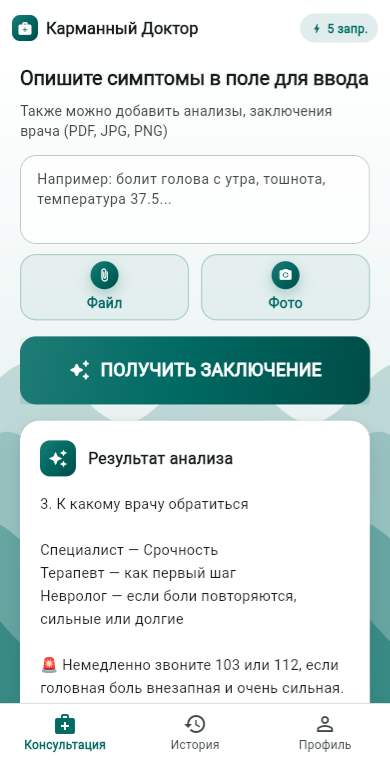
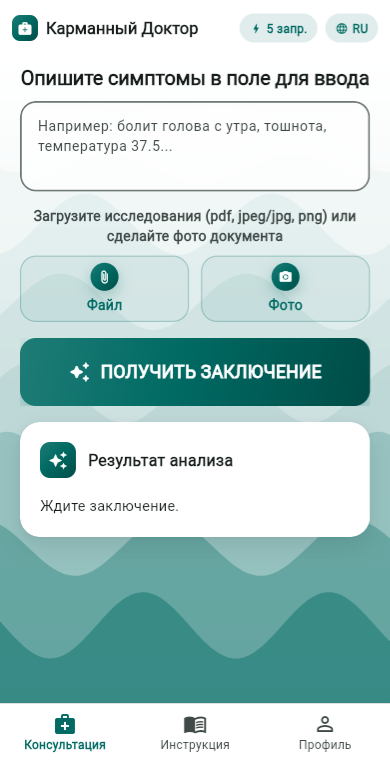
Карманный Доктор: единая бирюзовая тема скриншотов + EN-экран + лайтбокс
Все скриншоты раздела "Как выглядит" пересобраны в единой бирюзовой
теме (была смешанная синяя/бирюзовая). Добавлен главный экран на
английском языке. Добавлен клик-лайтбокс — открытие скриншота крупно
поверх страницы. Экран Истории убран из галереи (директива Михаила) —
итого 5 скриншотов вместо прежних 5 смешанных + отдельно показывался 6-й.

diff --git a/doctor-app.html b/doctor-app.html
@@ -60,9 +60,15 @@ h1{font-size:34px;font-weight:900;line-height:1.25;margin-bottom:14px;text-shado
 .lead{font-size:16.5px;color:#ddd;line-height:1.85;margin-bottom:40px}
 .features-grid{display:grid;grid-template-columns:repeat(2,1fr);gap:16px;margin-bottom:44px}
 .feat-card{background:#141414;border:1px solid rgba(255,255,255,0.07);border-radius:12px;padding:20px 22px;font-size:14.5px;color:#ccc;line-height:1.6}
-.shots{display:grid;grid-template-columns:repeat(5,1fr);gap:14px;margin-bottom:44px}
-.shots img{width:100%;border-radius:14px;border:1px solid rgba(255,255,255,0.08);box-shadow:0 12px 30px rgba(0,0,0,0.4);display:block}
+.shots{display:grid;grid-template-columns:repeat(auto-fit,minmax(150px,1fr));gap:14px;margin-bottom:44px}
+.shots img{width:100%;border-radius:14px;border:1px solid rgba(255,255,255,0.08);box-shadow:0 12px 30px rgba(0,0,0,0.4);display:block;cursor:zoom-in;transition:transform 0.15s ease}
+.shots img:hover{transform:scale(1.03)}
 .shots figcaption{text-align:center;font-size:12px;color:#888;margin-top:8px}
+.lightbox{position:fixed;inset:0;background:rgba(0,0,0,0.88);z-index:1000;display:none;align-items:center;justify-content:center;padding:40px 20px;cursor:zoom-out}
+.lightbox.open{display:flex}
+.lightbox img{max-width:min(500px,90vw);max-height:88vh;border-radius:16px;box-shadow:0 20px 60px rgba(0,0,0,0.6)}
+.lightbox-close{position:absolute;top:20px;right:28px;color:#fff;font-size:32px;line-height:1;cursor:pointer;background:rgba(255,255,255,0.08);width:44px;height:44px;border-radius:50%;display:flex;align-items:center;justify-content:center}
+.lightbox-close:hover{background:rgba(255,255,255,0.16)}
 .status-box{background:#141414;border:1px solid rgba(240,192,64,0.2);border-radius:16px;padding:28px;margin-bottom:40px}
 .status-box h2{font-size:17px;font-weight:800;margin-bottom:10px;color:#f0c040}
 .status-box p{font-size:14.5px;color:#bbb;line-height:1.75}
@@ -134,10 +140,10 @@ footer a{color:#00d4ff;text-decoration:none}
   <div class="section-lbl">Как выглядит</div>
   <div class="shots">
     <figure><img src="doctor-app-shots/consultation-teal.png" alt="Экран консультации, бирюзовая тема" loading="lazy"></figure>
-    <figure><img src="doctor-app-shots/consultation-blue.png" alt="Экран консультации, синяя тема" loading="lazy"></figure>
-    <figure><img src="doctor-app-shots/consultation-dark.png" alt="Экран консультации, тёмная тема" loading="lazy"></figure>
-    <figure><img src="doctor-app-shots/history.png" alt="Экран истории консультаций" loading="lazy"></figure>
-    <figure><img src="doctor-app-shots/profile.png" alt="Экран профиля" loading="lazy"></figure>
+    <figure><img src="doctor-app-shots/consultation-typed-teal.png" alt="Экран консультации с описанием симптомов, бирюзовая тема" loading="lazy"></figure>
+    <figure><img src="doctor-app-shots/instruction-teal.png" alt="Экран инструкции «Как это работает», бирюзовая тема" loading="lazy"></figure>
+    <figure><img src="doctor-app-shots/profile-teal.png" alt="Экран профиля, бирюзовая тема" loading="lazy"></figure>
+    <figure><img src="doctor-app-shots/consultation-en-teal.png" alt="Экран консультации на английском языке, бирюзовая тема" loading="lazy"></figure>
   </div>
 
   <div class="status-box">
@@ -152,6 +158,12 @@ footer a{color:#00d4ff;text-decoration:none}
   </div>
 </div>
 <footer><a href="index.html">← OM-Digital Company</a> &nbsp;·&nbsp; AI-агентство &nbsp;·&nbsp; Москва &nbsp;·&nbsp; 9:00–21:00 МСК &nbsp;·&nbsp; <a href="sitemap.xml">Карта сайта</a></footer>
+
+<div class="lightbox" id="shotsLightbox">
+  <div class="lightbox-close" id="lightboxClose">&times;</div>
+  <img id="lightboxImg" src="" alt="">
+</div>
+
 <script>
 document.getElementById('menuBtn').addEventListener('click', function(){
   this.classList.toggle('open');
@@ -161,6 +173,31 @@ function closeMenu(){
   document.getElementById('menuBtn').classList.remove('open');
   document.getElementById('mobileMenu').classList.remove('open');
 }
+
+// Лайтбокс для скриншотов приложения (19.07.2026, дополнение Михаила к задаче
+// про единую тему скриншотов): клик по любой карточке в разделе "Как выглядит"
+// открывает её крупно поверх страницы. Без зависимостей — просто клонируем src
+// кликнутой картинки в оверлей, закрытие по крестику/клику на фон/Escape.
+(function(){
+  var lightbox = document.getElementById('shotsLightbox');
+  var lightboxImg = document.getElementById('lightboxImg');
+  document.querySelectorAll('.shots img').forEach(function(img){
+    img.addEventListener('click', function(){
+      lightboxImg.src = img.src;
+      lightboxImg.alt = img.alt;
+      lightbox.classList.add('open');
+    });
+  });
+  function closeLightbox(){ lightbox.classList.remove('open'); }
+  lightbox.addEventListener('click', closeLightbox);
+  document.getElementById('lightboxClose').addEventListener('click', function(e){
+    e.stopPropagation();
+    closeLightbox();
+  });
+  document.addEventListener('keydown', function(e){
+    if (e.key === 'Escape') closeLightbox();
+  });
+})();
 </script>
 </body>
 </html>